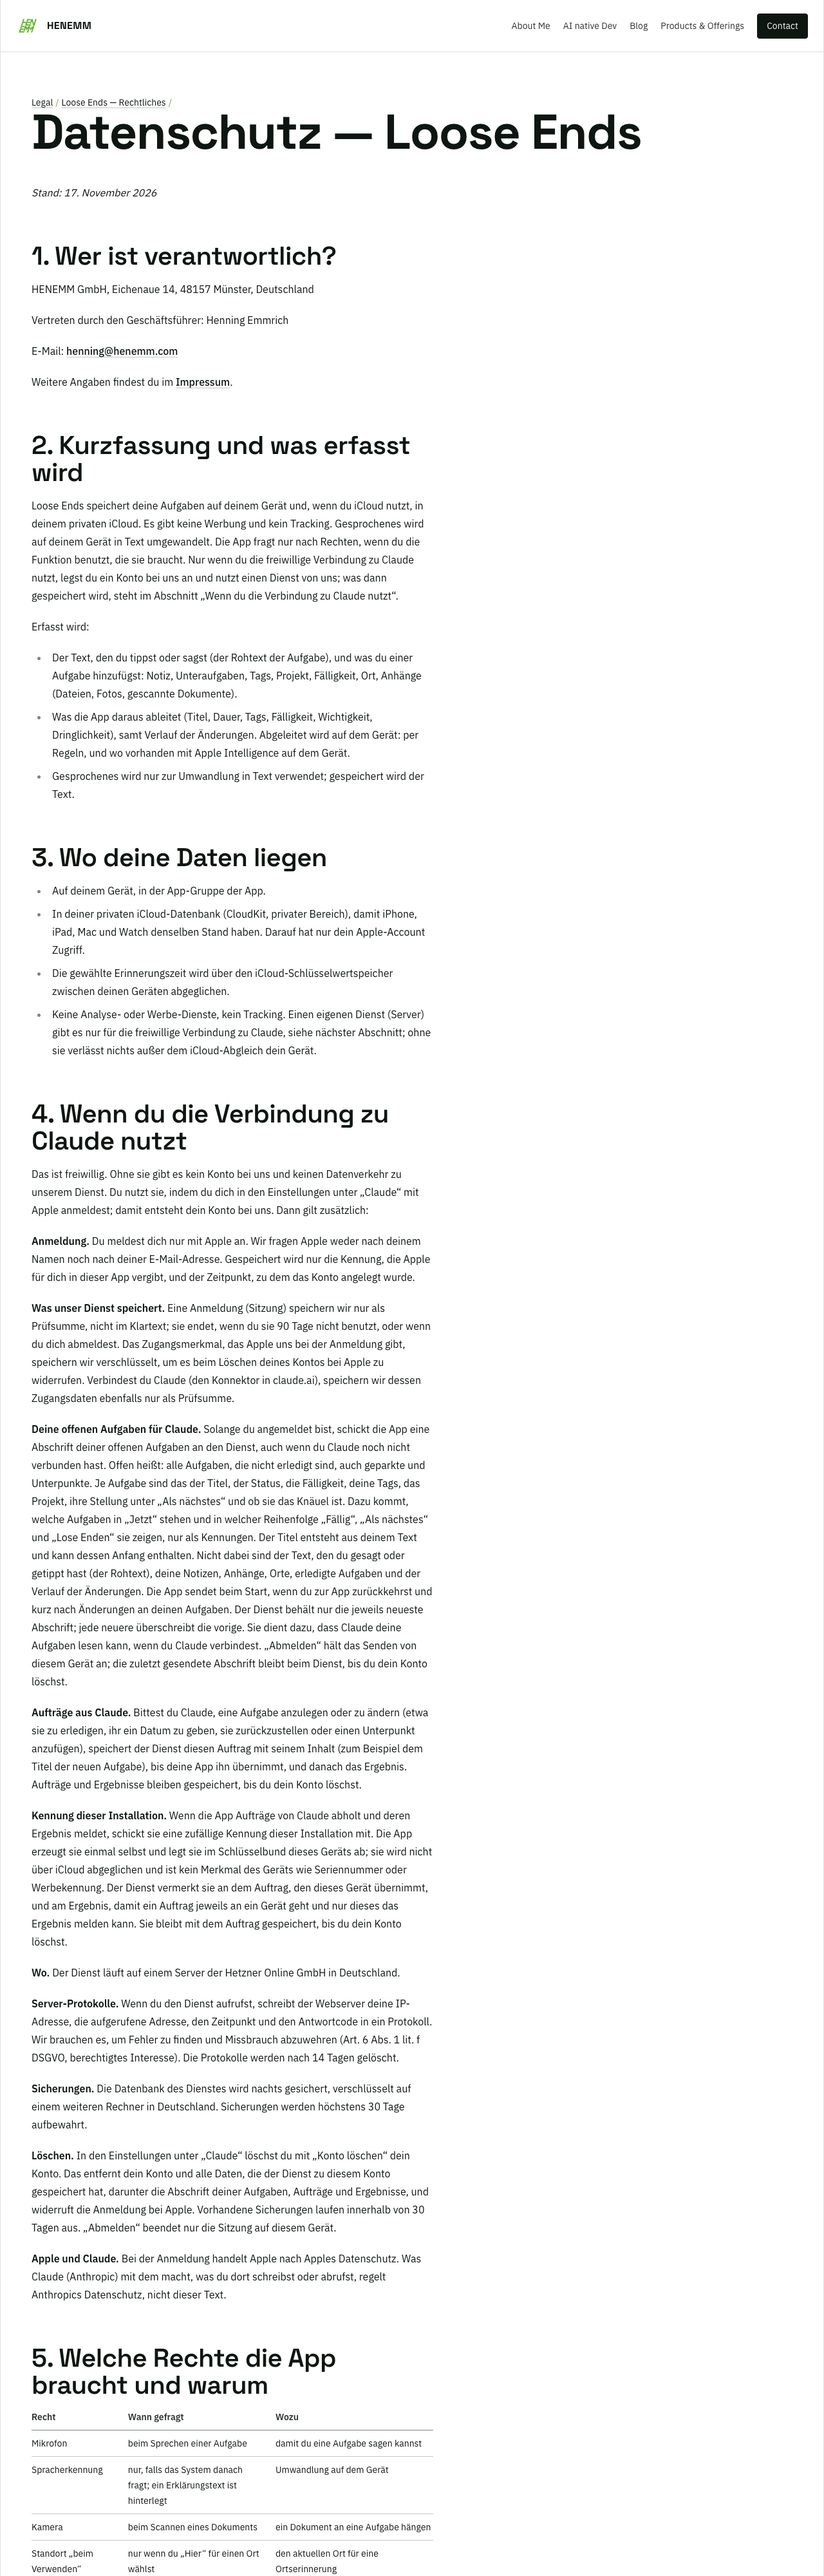
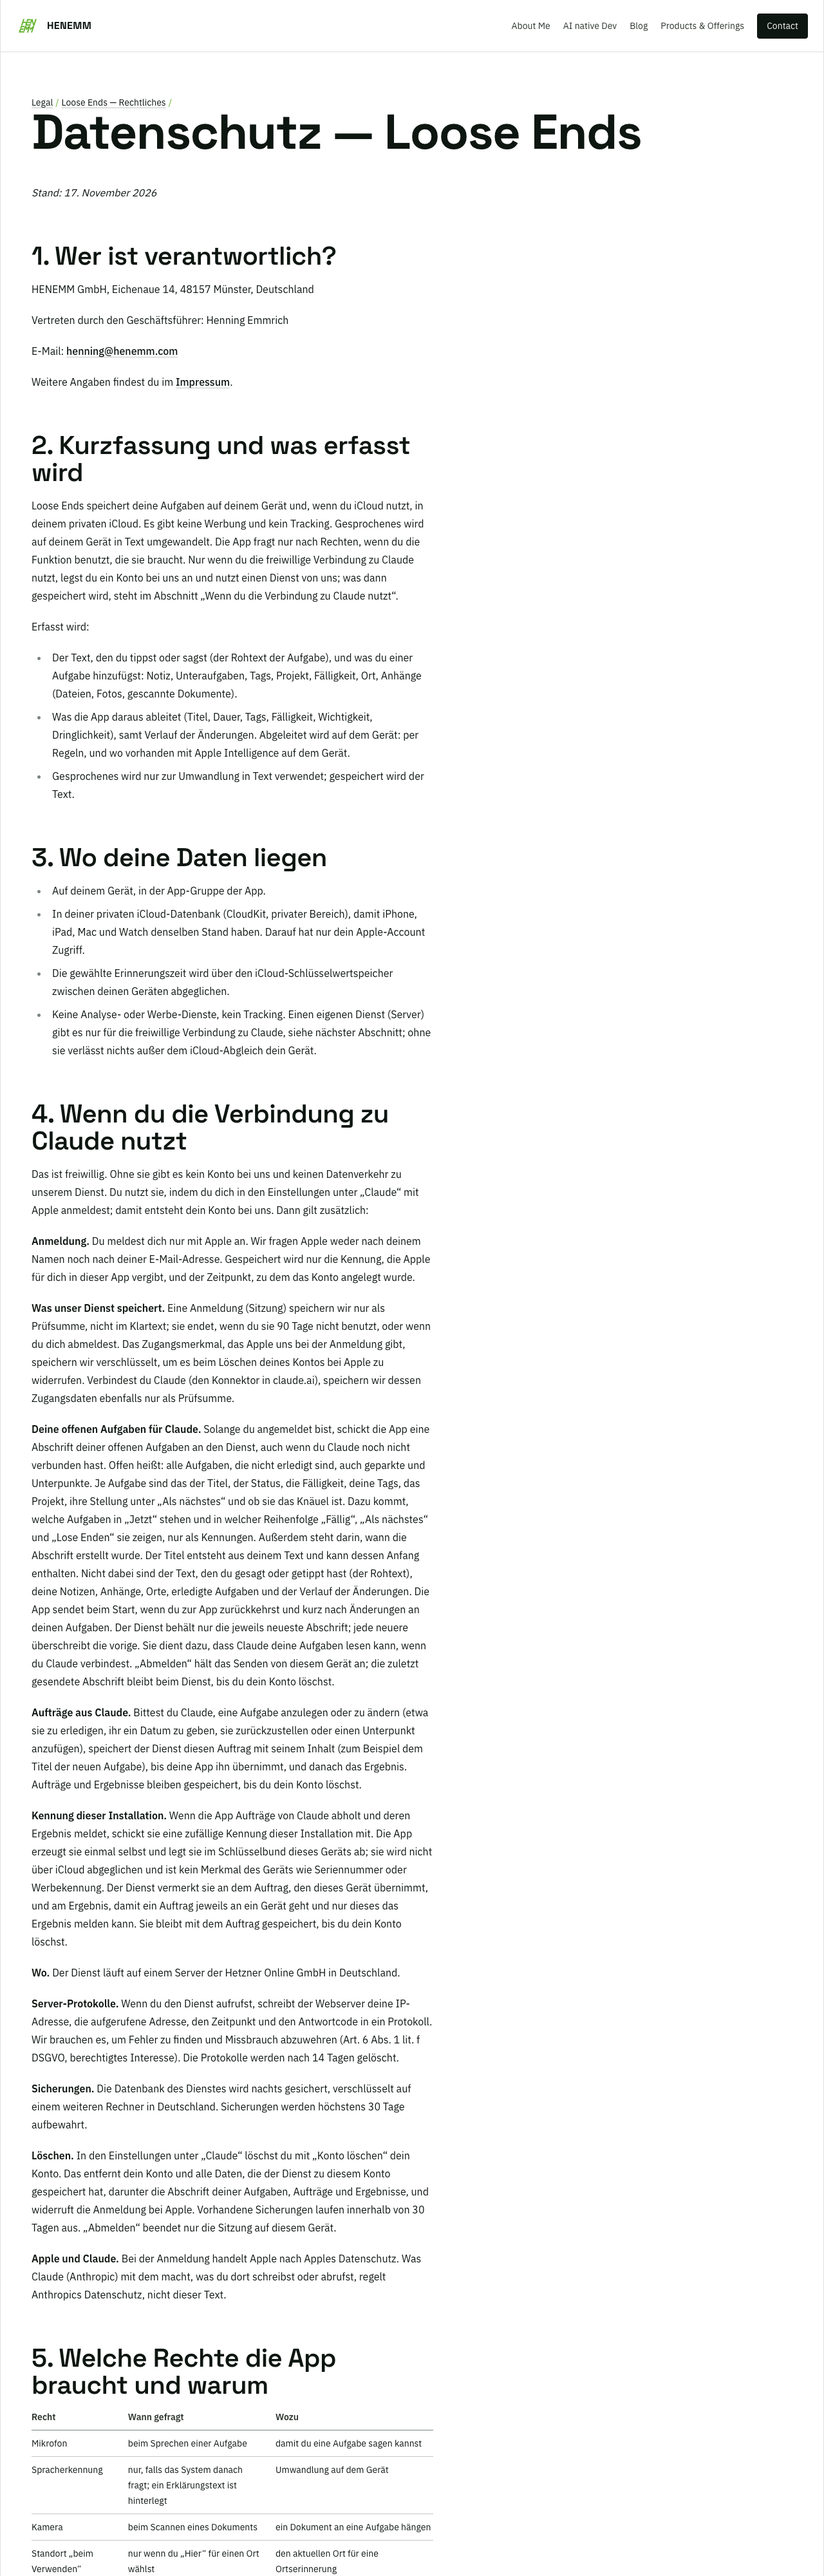
docs: Live-Belege und Statuskopf für den Zeitpunkt-Satz (Refs #625) (#946)
Website henemm/henemm-website#81 live: Live-Prüfung grün (18 Tests, 0 übersprungen), Vergleich de/en 22/22, Screenshots je Sprache.

Changed region(s): [[0.0312, 0.5938, 0.5, 0.6562]]

diff --git a/docs/reference/datenschutz-entwurf.md b/docs/reference/datenschutz-entwurf.md
@@ -13,7 +13,7 @@ veröffentlicht auf der Website-Seite am 2026-11-10 (henemm/henemm-website#79), 
 Nachtrag Abschrift und Kennung dieser Installation (Absätze „Deine offenen Aufgaben für Claude.“ und „Kennung dieser
 Installation.“, Löschsatz) von Henning freigegeben am 2026-11-17 (#625 Schnitt 1,
 `docs/specs/feat-625-schnitt-1-datenschutztext.md`); veröffentlicht auf der Website-Seite am 2026-11-17
-(henemm/henemm-website#80).
+(henemm/henemm-website#80); der Satz zum Zeitpunkt der Abschrift am 2026-11-17 (henemm/henemm-website#81).
 
 Geschrieben aus dem, was der Code am 2026-10-26 belegt (#342, Teil 2). Jede Aussage hat unten einen Beleg im
 Code; was der Code nicht beweist, steht unter „Offen, nicht belegt“.
@@ -225,7 +225,8 @@ am 2026-11-10 (henemm/henemm-website#79), nachdem die Sicherungsfrist von 30 Tag
 Nachtrag Abschrift und Kennung dieser Installation (in Abschnitt 4 die Absätze „Your open tasks for Claude.“ und
 „Identifier of this installation.“ und der Löschsatz) wortgetreu aus der Spec übernommen, von Henning freigegeben am
 2026-11-17 (#625 Schnitt 1, `docs/specs/feat-625-schnitt-1-datenschutztext.md`); veröffentlicht auf
-https://www.henemm.com/legal/loose-ends/privacy-policy-en/ am 2026-11-17 (henemm/henemm-website#80).
+https://www.henemm.com/legal/loose-ends/privacy-policy-en/ am 2026-11-17 (henemm/henemm-website#80); der Satz zum Zeitpunkt
+der Abschrift am 2026-11-17 (henemm/henemm-website#81).
 
 *Last updated: November 17, 2026*
 
